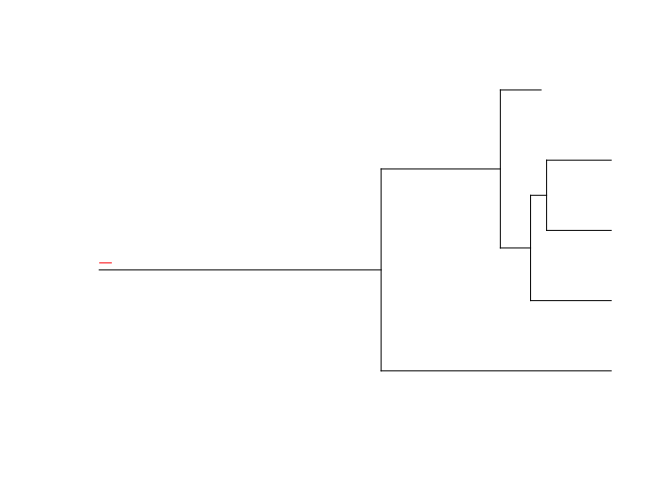
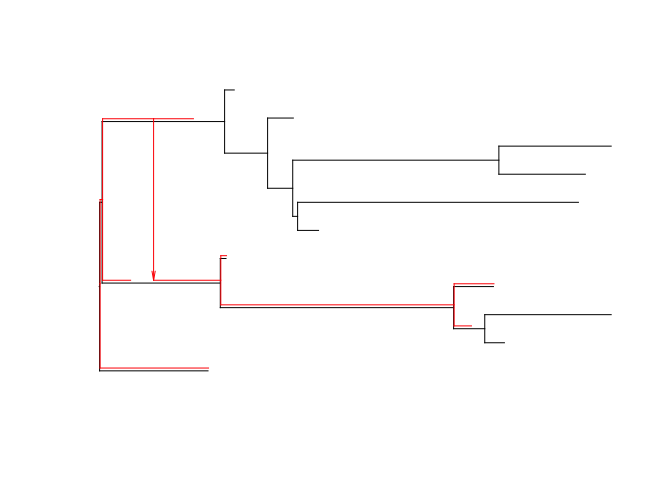
Improved figure example for README.

diff --git a/cophy/README.md b/cophy/README.md
@@ -17,46 +17,71 @@ print(cop)
 #> [1] "Cophylogeny consisting of a host tree and an associated parasite tree."
 #> 
 #> Hosts:$edge
-#>      [,1] [,2]
-#> [1,]    6    1
-#> [2,]    6    7
-#> [3,]    7    8
-#> [4,]    7    5
-#> [5,]    8    2
-#> [6,]    8    9
-#> [7,]    9    3
-#> [8,]    9    4
+#>       [,1] [,2]
+#>  [1,]   12    3
+#>  [2,]   12   13
+#>  [3,]   13   14
+#>  [4,]   13   15
+#>  [5,]   14   19
+#>  [6,]   14    4
+#>  [7,]   15   16
+#>  [8,]   15    5
+#>  [9,]   16   17
+#> [10,]   16    6
+#> [11,]   17   18
+#> [12,]   17   21
+#> [13,]   18    7
+#> [14,]   18   10
+#> [15,]   19   20
+#> [16,]   19    8
+#> [17,]   20    9
+#> [18,]   20    1
+#> [19,]   21   11
+#> [20,]   21    2
 #> 
 #> $edge.length
-#> [1] 2.2469809 1.1644348 0.2950885 0.3978848 0.7874576 0.1565878 0.6308698
-#> [8] 0.6308698
+#>  [1] 1.05894160 0.02431861 1.15432990 1.19642163 2.27846554 0.05588828
+#>  [7] 0.41988284 0.09428340 0.24536794 0.25142550 0.04773460 2.01312663
+#> [13] 0.20461816 2.74244704 0.30415867 0.38909916 0.19215806 1.23482532
+#> [19] 0.84463667 1.09698039
 #> 
 #> $tip.label
-#> [1] "t1" "t2" "t3" "t4" "t5"
+#>  [1] "t1"  "t2"  "t3"  "t4"  "t5"  "t6"  "t7"  "t8"  "t9"  "t10" "t11"
 #> 
 #> $root.edge
-#> [1] 2.753019
+#> [1] 0.003901958
 #> 
 #> $nAlive
-#> [1] 4
+#> [1] 2
 #> 
 #> $Nnode
-#> [1] 4
+#> [1] 10
 #> 
 #> attr(,"class")
 #> [1] "phylo"
 #> 
 #> Parasites:$edge
-#>      [,1] [,2]
+#>       [,1] [,2]
+#>  [1,]    7    3
+#>  [2,]    7    8
+#>  [3,]    8    1
+#>  [4,]    8    9
+#>  [5,]    9    2
+#>  [6,]    9   10
+#>  [7,]   10   11
+#>  [8,]   10    4
+#>  [9,]   11    5
+#> [10,]   11    6
 #> 
 #> $edge.length
-#> numeric(0)
+#>  [1] 1.05894160 0.02431861 0.27365773 0.49796080 0.38912096 0.65636910
+#>  [7] 2.27846554 0.05588828 0.16947192 0.38909916
 #> 
 #> $tip.label
-#> [1] "t1"
+#> [1] "t1" "t2" "t3" "t4" "t5" "t6"
 #> 
 #> $root.edge
-#> [1] 0.1135837
+#> [1] 0.003901958
 #> 
 #> $root.time
 #> [1] 0
@@ -65,19 +90,19 @@ print(cop)
 #> [1] 0
 #> 
 #> $Hassoc
-#> numeric(0)
+#>  [1]  1  2  3  4  4  3  5  6 15 16
 #> 
 #> $root.Hassoc
 #> [1] 1
 #> 
 #> $Nnode
-#> [1] 0
+#> [1] 5
 #> 
 #> attr(,"class")
 #> [1] "phylo"
 get_infectionStatistics(cop)
 #>         noHspecies         noPspecies   fractionInfected 
-#>                  4                  0                  0 
+#>                  2                  0                  0 
 #> meanInfectionLevel 
 #>                  0
 plot(cop)
